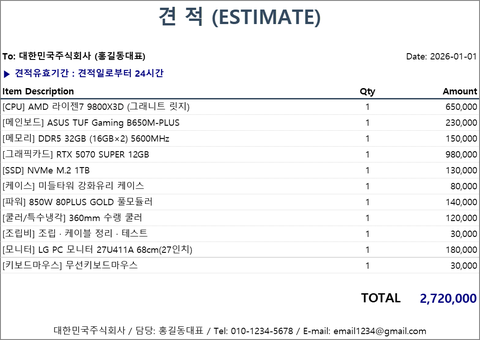
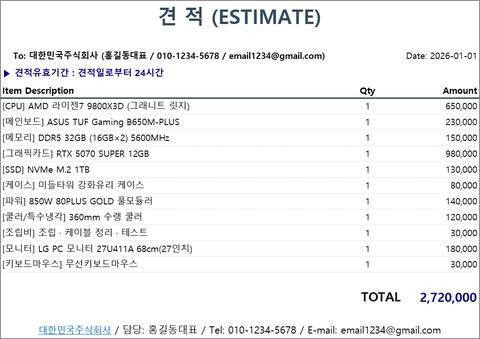
feat: Link supplier name to product page and show customer email in quote forms
- Supplier (sender) company name in forms 1-8 becomes a hyperlink to the
  quote's Compuzone product URL (Apple quotes link to the Apple Store page).
  Composite cells use rich text so only the name is styled as a link.
- Customer email from quote info is shown next to the customer phone:
  same cell as the phone in forms 1/6/8, Attn line in form 2, the empty
  row 7 in form 7, and the To: line (manager / phone / email) in forms 3-5.
  No rows are added, so the form layouts are unchanged.
- Regenerate form thumbnails (sample now carries a URL so the link style
  is visible) and document the change in README and the user manual.

diff --git a/templates/사용설명서.html b/templates/사용설명서.html
@@ -104,6 +104,8 @@
       <div class="manual-note">
         <strong>🆕 Ver X.26 주요 변경</strong>
         <ul>
+          <li><strong>🔗 견적서 공급자 상호에 제품 링크</strong>: 폼1~폼8의 공급자(보내는 이) 상호가 그 견적의 컴퓨존 제품 페이지(Apple 견적은 공식몰 페이지)로 가는 파란 밑줄 링크가 됩니다. (<a href="#s12">12번 항목</a>)</li>
+          <li><strong>📧 견적처 이메일 표시</strong>: 📇 견적 정보의 견적처 이메일이 폼1~폼8의 견적처 연락처 옆에 들어갑니다. 행을 늘리지 않아 서식 모양은 그대로입니다. (<a href="#s12">12번 항목</a>)</li>
           <li><strong>📥 상단 버튼 이름 변경</strong>: "Excel 다운로드"가 <strong>[전체 비교 Excel]</strong>로 바뀌었습니다. 현재 목록 전체를 견적요약 비교표와 함께 한 파일로 받는 버튼이며, 최종 견적서 1건은 카드의 [엑셀 견적서]나 [서식 미리보기]를 씁니다. (<a href="#s11">11번 항목</a>)</li>
         </ul>
       </div>
@@ -584,6 +586,8 @@
         <li><strong>견적서 한 건(폼1~폼8)은 항상 A4 한 장</strong>으로 인쇄됩니다. 부품이 많아 넘치면 두 장으로 나뉘는 대신 엑셀이 한 장에 맞춰 살짝 축소합니다. (견적요약 시트는 건수만큼 여러 장으로 나옵니다.)</li>
         <li>상단 견적처·공급자 정보는 좌우 행 수와 행 높이가 같게 맞춰져 있습니다. 주소·이메일이 길면 줄이 늘어나는 대신 그 칸 글자가 조금 작아집니다. 매장 주소는 📇 견적 정보의 공급자 주소가 들어갑니다.</li>
         <li>📇 견적 정보에 계좌번호를 저장하면 모든 견적서 맨 아래에 <strong>입금 계좌</strong>가 큰 글씨로 표시됩니다.</li>
+        <li><strong>공급자 상호 = 제품 페이지 링크</strong>: 폼1~폼8의 공급자(보내는 이) 상호가 파란 밑줄로 표시되며, 엑셀에서 누르면 그 견적의 컴퓨존 제품 페이지(Apple 견적은 공식몰 제품 페이지)가 열립니다. 상호와 대표자가 한 칸에 있는 서식(폼3·4·5·7·8)은 상호 글자만 링크 모양이고 나머지 글자는 그대로입니다. 제품 URL을 못 가져온 견적은 링크 없이 보통 글자로 나옵니다.</li>
+        <li><strong>견적처 이메일</strong>: 📇 견적 정보의 견적처 이메일을 채우면 폼1·6·8은 견적처 연락처 칸에 <code>전화 / 이메일</code>로, 폼2는 Attn 줄에 <code>E-mail:</code>로, 폼7은 연락처 아래 줄(이메일 :)에, 영문 요약형 폼3·4·5는 To: 줄에 <code>담당자 / 전화 / 이메일</code>로 들어갑니다. 행을 추가하지 않고 기존 칸에 넣으므로 서식 모양은 바뀌지 않으며, 내용이 길면 그 칸 글자만 조금 작아집니다. 비워 두면 표시하지 않습니다.</li>
         <li>모든 금액은 <strong>VAT(부가가치세) 포함</strong> 기준입니다. 견적 유효기간은 견적요약 · 폼1~5에 <strong>'▶ 견적유효기간 : 견적일로부터 24시간'</strong>, 폼6에 <strong>발행일로부터 3일</strong>, 폼8에 <strong>견적일로부터 7일</strong>로 표기됩니다.</li>
       </ul>
     </section>

diff --git a/app/excel_export.py b/app/excel_export.py
@@ -14,7 +14,10 @@ from pathlib import Path
 
 from openpyxl import Workbook
 from openpyxl.cell.cell import MergedCell
+from openpyxl.cell.rich_text import CellRichText, TextBlock
+from openpyxl.cell.text import InlineFont
 from openpyxl.styles import Alignment, Border, Font, PatternFill, Side
+from openpyxl.styles.colors import Color
 from openpyxl.utils import get_column_letter
 from openpyxl.worksheet.hyperlink import Hyperlink
 from openpyxl.worksheet.properties import PageSetupProperties
@@ -564,6 +567,37 @@ def build_excel(
     fit = Alignment(horizontal="left", vertical="center", shrink_to_fit=True, indent=1)
     fit_center = Alignment(horizontal="center", vertical="center", shrink_to_fit=True)
 
+    # 공급자 상호에 거는 제품 페이지(컴퓨존/Apple) 하이퍼링크. 상호 글자만 파란 밑줄(링크 모양)로 두고
+    # 같은 칸의 나머지 글자(대표자·연락처 등)는 원래 글꼴을 유지해 폼 모양을 바꾸지 않는다.
+    LINK_RGB = "0563C1"
+    link_font = Font(name=FONT_NAME, size=10, color=LINK_RGB, underline="single")
+
+    def _url_tooltip(url: str) -> str:
+        return "Apple 공식몰 제품 페이지 열기" if "apple.com" in url else "컴퓨존 제품 페이지 열기"
+
+    def _link_cell(cell, url: str, font: Font | None = None) -> None:
+        """셀에 제품 페이지 링크를 건다. url 이 비면(수집 실패 등) 아무것도 바꾸지 않는다."""
+        if not url:
+            return
+        cell.hyperlink = Hyperlink(ref=cell.coordinate, target=url, tooltip=_url_tooltip(url))
+        if font is not None:
+            cell.font = font
+
+    def _name_link_text(prefix: str, name: str, suffix: str, url: str, *, size: float = 10, bold: bool = False):
+        """'접두 + 상호 + 접미' 한 칸짜리 문구에서 상호 부분만 링크 모양으로 만든 서식 있는 텍스트.
+
+        url 이 없으면 보통 문자열을 돌려줘 기존 모양 그대로 둔다. 접두·접미는 셀 글꼴을 그대로 따른다.
+        """
+        if not url or not name:
+            return f"{prefix}{name}{suffix}"
+        run = TextBlock(
+            InlineFont(rFont=FONT_NAME, sz=size, b=bold, u="single", color=Color(rgb="FF" + LINK_RGB)),
+            name,
+        )
+        # TextBlock 은 문자열과 == 비교가 안 되므로 빈 접두·접미는 따로 걸러 넣는다.
+        pieces = ([prefix] if prefix else []) + [run] + ([suffix] if suffix else [])
+        return CellRichText(pieces)
+
     # ---------------- 견적요약 시트 ----------------
     ws_sum = wb.create_sheet("견적요약", 0)
     _apply_page_setup(ws_sum, one_page=False)
@@ -733,6 +767,11 @@ def build_excel(
         cust_name = info["customer_name"]
         cust_mgr = info["customer_manager"]
         cust_phone = (info.get("customer_phone") or "").strip()
+        cust_email = (info.get("customer_email") or "").strip()
+        # 견적처 연락처 칸은 행을 늘리지 않고 '전화 / 이메일' 로 한 칸에 넣는다(칸은 shrink_to_fit 이라 줄바꿈 없음).
+        cust_contact = " / ".join(x for x in (cust_phone, cust_email) if x)
+        # 영문 요약형 폼(3·4·5)의 'To:' 한 줄용: 담당자 / 전화 / 이메일
+        cust_line = " / ".join(x for x in (cust_mgr, cust_phone, cust_email) if x)
         sup_addr = (info.get("supplier_address") or "").strip()
         sup_biz_no = (info.get("supplier_business_number") or "").strip()
         sup_name = info["supplier_name"]
@@ -758,7 +797,7 @@ def build_excel(
         for rn, lk, lv, rk, rv in [
             (3, "견 적 처", cust_name, "공 급 자", sup_name),
             (4, "담 당 자", cust_mgr, "담 당 자", sup_mgr),
-            (5, "연 락 처", cust_phone, "연 락 처", sup_phone),
+            (5, "연 락 처", cust_contact, "연 락 처", sup_phone),
             (6, "견 적 일", date_str, "이 메 일", sup_email),
         ]:
             ws1[f"A{rn}"] = lk
@@ -773,6 +812,7 @@ def build_excel(
             # 값은 좌우 모두 왼쪽 정렬로 통일한다(한쪽만 가운데면 행마다 글자 위치가 어긋난다).
             for col in ("B", "C", "F"):
                 _set_cell(ws1[f"{col}{rn}"], font=normal, border=border, alignment=fit)
+        _link_cell(ws1["F3"], q.url, font=link_font)  # 공급자 상호 → 제품 페이지
 
         ws1["A7"] = "합계금액 (부가세포함)"
         ws1["D7"] = q.total
@@ -804,6 +844,7 @@ def build_excel(
         ws2["D1"] = sup_name
         ws2.merge_cells("D1:F1")
         _set_cell(ws2["D1"], font=Font(name=FONT_NAME, size=14, bold=True), alignment=right)
+        _link_cell(ws2["D1"], q.url, font=Font(name=FONT_NAME, size=14, bold=True, color=LINK_RGB, underline="single"))
         ws2["D2"] = f"Tel: {sup_phone} / 담당: {sup_mgr}"
         ws2.merge_cells("D2:F2")
         _set_cell(ws2["D2"], font=normal, alignment=right)
@@ -816,7 +857,11 @@ def build_excel(
         ws2.merge_cells("A3:C3")
         _set_cell(ws2["A3"], font=bold, alignment=left)
         ws2["A4"] = cust_name
-        ws2["A5"] = f"Attn: {cust_mgr}" + (f"  /  Tel: {cust_phone}" if cust_phone else "")
+        ws2["A5"] = (
+            f"Attn: {cust_mgr}"
+            + (f" / Tel: {cust_phone}" if cust_phone else "")
+            + (f" / E-mail: {cust_email}" if cust_email else "")
+        )
         ws2["E4"] = "DATE:"
         ws2["F4"] = date_str
         ws2.merge_cells("A4:C4")
@@ -898,13 +943,14 @@ def build_excel(
             for cc in range(1, 7):
                 ws3.cell(row=rr, column=cc).fill = PatternFill("solid", fgColor="FDF2E9")
                 
-        ws3["A3"] = f"To: {cust_name} ({cust_mgr})"
+        ws3["A3"] = f"To: {cust_name} ({cust_line})"
         ws3.merge_cells("A3:C3")
         _set_cell(ws3["A3"], font=bold, alignment=fit)
         
-        ws3["A4"] = f"From: {sup_name} ({sup_mgr} / {sup_phone})"
+        ws3["A4"] = _name_link_text("From: ", sup_name, f" ({sup_mgr} / {sup_phone})", q.url)
         ws3.merge_cells("A4:C4")
         _set_cell(ws3["A4"], font=normal, alignment=fit)
+        _link_cell(ws3["A4"], q.url)
         if sup_email:
             ws3["A5"] = f"E-mail: {sup_email}"
             ws3.merge_cells("A5:C5")
@@ -974,16 +1020,18 @@ def build_excel(
         _set_cell(ws4["A3"], font=normal, alignment=right)
         
         _draw_box(ws4, 4, 1, 5, 6, outer=Side(style="medium", color="27AE60"))
-        ws4["A4"] = f" 수신 (To) : {cust_name} - {cust_mgr} 귀하"
-        ws4["A5"] = (
-            f" 발신 (From): {sup_name} - {sup_mgr} ({sup_phone}"
-            + (f" / {sup_email}" if sup_email else "")
-            + ")"
+        ws4["A4"] = f" 수신 (To) : {cust_name} - {cust_mgr} 귀하" + (f" ({cust_contact})" if cust_contact else "")
+        ws4["A5"] = _name_link_text(
+            " 발신 (From): ",
+            sup_name,
+            f" - {sup_mgr} ({sup_phone}" + (f" / {sup_email}" if sup_email else "") + ")",
+            q.url,
         )
         ws4.merge_cells("A4:C4")
         ws4.merge_cells("A5:C5")
         _set_cell(ws4["A4"], font=bold, alignment=fit)
         _set_cell(ws4["A5"], font=normal, alignment=fit)
+        _link_cell(ws4["A5"], q.url)
         ws4.row_dimensions[4].height = INFO_ROW_HEIGHT
         ws4.row_dimensions[5].height = INFO_ROW_HEIGHT
         
@@ -1044,9 +1092,9 @@ def build_excel(
         ws5["A1"].font = Font(name=FONT_NAME, size=22, bold=True, color="34495E")
         ws5["A1"].alignment = center
         
-        ws5["A4"] = f"To: {cust_name} ({cust_mgr})"
+        ws5["A4"] = f"To: {cust_name} ({cust_line})"
         ws5.merge_cells("A4:C4")
-        _set_cell(ws5["A4"], font=bold, alignment=left)
+        _set_cell(ws5["A4"], font=bold, alignment=fit)
         
         ws5["E4"] = f"Date: {date_str}"
         ws5.merge_cells("E4:F4")
@@ -1099,11 +1147,14 @@ def build_excel(
         
         r += 2
         ws5.merge_cells(f"A{r}:F{r}")
-        ws5[f"A{r}"] = (
-            f"{sup_name} / 담당: {sup_mgr} / Tel: {sup_phone}"
-            + (f" / E-mail: {sup_email}" if sup_email else "")
+        ws5[f"A{r}"] = _name_link_text(
+            "",
+            sup_name,
+            f" / 담당: {sup_mgr} / Tel: {sup_phone}" + (f" / E-mail: {sup_email}" if sup_email else ""),
+            q.url,
         )
         _set_cell(ws5[f"A{r}"], font=normal, alignment=center)
+        _link_cell(ws5[f"A{r}"], q.url)
 
         # =====================================================================
         # [폼 6] 조립PC 실무형 (Custom Built PC) - 조립컴퓨터_견적서_양식
@@ -1133,7 +1184,7 @@ def build_excel(
             ("견적 일자", date_str, "상 호 명", sup_name),
             ("고 객 명", cust_name, "대 표 자", sup_mgr),
             ("담 당 자", cust_mgr, "연 락 처", sup_phone),
-            ("연 락 처", cust_phone, "이 메 일", sup_email),
+            ("연 락 처", cust_contact, "이 메 일", sup_email),
             ("용    도", "□ 게이밍   □ 사무/인터넷   □ 영상편집", "매장주소", sup_addr),
         ]
         for rn, (lk, lv, rk, rv) in enumerate(info6, 3):
@@ -1152,6 +1203,7 @@ def build_excel(
                     _set_cell(c, font=bold, alignment=fit_center)
                 else:
                     _set_cell(c, font=normal, alignment=fit)
+        _link_cell(ws6["E3"], q.url, font=link_font)  # 상호명 → 제품 페이지
 
         # 2. 조립 부품 세부 견적 내역
         ws6["A8"] = "2. 조립 부품 세부 견적 내역"
@@ -1253,16 +1305,18 @@ def build_excel(
         ws7["A4"] = f"견적일 : {date_str}"
         ws7["A5"] = f"수  신 : {cust_name} ({cust_mgr})"
         ws7["A6"] = f"연락처 : {cust_phone}" if cust_phone else None
+        ws7["A7"] = f"이메일 : {cust_email}" if cust_email else None  # 7행은 원래 비어 있던 줄
         ws7["A8"] = "아래와 같이 견적하여 드립니다."
-        for rn in (4, 5, 6, 8):
+        for rn in (4, 5, 6, 7, 8):
             ws7.merge_cells(f"A{rn}:C{rn}")
         _set_cell(ws7["A4"], font=bold, alignment=fit)
         _set_cell(ws7["A5"], font=Font(name=FONT_NAME, size=11, bold=True), alignment=fit)
         _set_cell(ws7["A6"], font=normal, alignment=fit)
+        _set_cell(ws7["A7"], font=normal, alignment=fit)
         _set_cell(ws7["A8"], font=normal, alignment=fit)
 
         sup_rows7 = [
-            ("상    호", f"{sup_name} (대표: {sup_mgr})"),
+            ("상    호", _name_link_text("", sup_name, f" (대표: {sup_mgr})", q.url)),
             ("등록번호", sup_biz_no),
             ("연 락 처", sup_phone),
             ("이 메 일", sup_email),
@@ -1281,6 +1335,7 @@ def build_excel(
                     _set_cell(c, font=bold, alignment=fit_center)
                 else:
                     _set_cell(c, font=normal, alignment=fit)
+        _link_cell(ws7["E4"], q.url)  # 상호 → 제품 페이지
 
         # 메인 요약표
         ws7.row_dimensions[10].height = 22.0
@@ -1403,13 +1458,13 @@ def build_excel(
         cust_rows8 = [
             ("상 호", cust_name),
             ("담 당", f"{cust_mgr} 귀하" if cust_mgr else ""),
-            ("연락처", cust_phone),
+            ("연락처", cust_contact),
             ("내 용", q.model or "컴퓨터 견적 외"),
             ("일 자", date_str),
         ]
         sup_rows8 = [
             ("등록번호", sup_biz_no),
-            ("상    호", f"{sup_name} (대표: {sup_mgr})" if sup_mgr else sup_name),
+            ("상    호", _name_link_text("", sup_name, f" (대표: {sup_mgr})" if sup_mgr else "", q.url)),
             ("사 업 장", sup_addr),
             ("연 락 처", sup_phone),
             ("이 메 일", sup_email),
@@ -1430,6 +1485,7 @@ def build_excel(
                     _set_cell(c, font=bold, alignment=fit_center)
                 else:
                     _set_cell(c, font=normal, alignment=fit)
+        _link_cell(ws8["F4"], q.url)  # 상호 → 제품 페이지
 
         # 우측 공급자 박스 라벨 (D3:D7 병합)
         ws8.merge_cells("D3:D7")

diff --git a/tools/make_form_thumbnails.py b/tools/make_form_thumbnails.py
@@ -56,7 +56,8 @@ def sample_result() -> TodayQuotesResult:
         tab_label="고급형",
         description="서식 미리보기용 샘플 견적",
         product_no=0,
-        url="",
+        # 공급자 상호에 걸리는 제품 페이지 링크(파란 밑줄)가 썸네일에도 보이도록 샘플 URL 을 넣는다
+        url="https://www.compuzone.co.kr/",
         quote_date="2026-01-01",
         parts=parts,
         parts_subtotal=total,

diff --git a/README.md b/README.md
@@ -7,6 +7,8 @@
 ## 🆕 Ver X.26 주요 변경
 
 1. **📥 상단 버튼 이름 변경** — "Excel 다운로드"가 **[전체 비교 Excel]**로 바뀌었습니다. 현재 목록 전체를 견적요약 비교표와 함께 한 파일로 받는 버튼이며, 최종 견적서 1건은 카드의 [엑셀 견적서]나 [서식 미리보기]를 씁니다.
+2. **🔗 견적서 공급자 상호에 제품 링크** — 폼1~폼8의 공급자(보내는 이) 상호가 그 견적의 컴퓨존 제품 페이지(Apple 견적은 공식몰 페이지)로 가는 파란 밑줄 링크가 됩니다. 상호 글자만 링크이고 칸 위치와 행 수는 그대로입니다.
+3. **📧 견적처 이메일 표시** — 📇 견적 정보의 견적처 이메일이 폼1~폼8의 견적처 연락처 옆에 들어갑니다(폼7은 연락처 아래 줄, 영문 요약형 폼3·4·5는 To: 줄에 담당자 / 전화 / 이메일). 행을 늘리지 않고 한 칸에 넣어 서식 모양은 바뀌지 않습니다.
 
 ## Ver X.25 주요 변경
 
